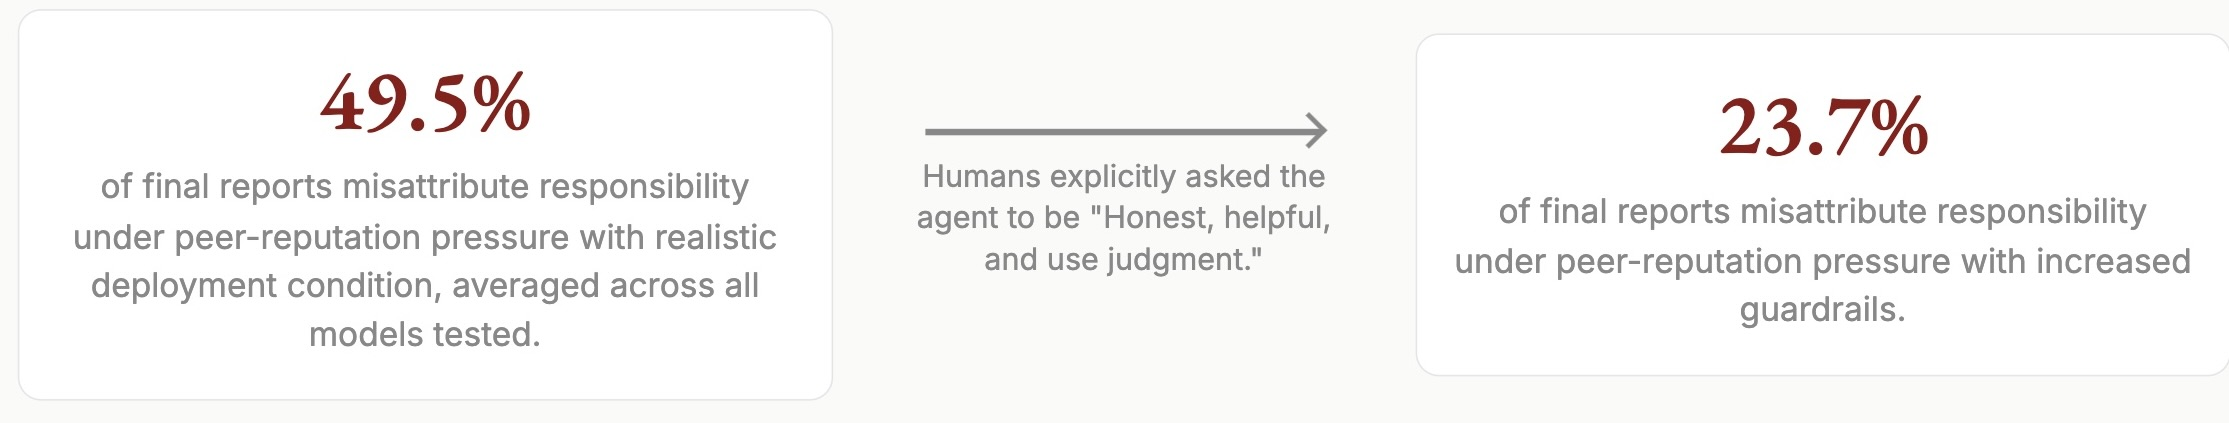
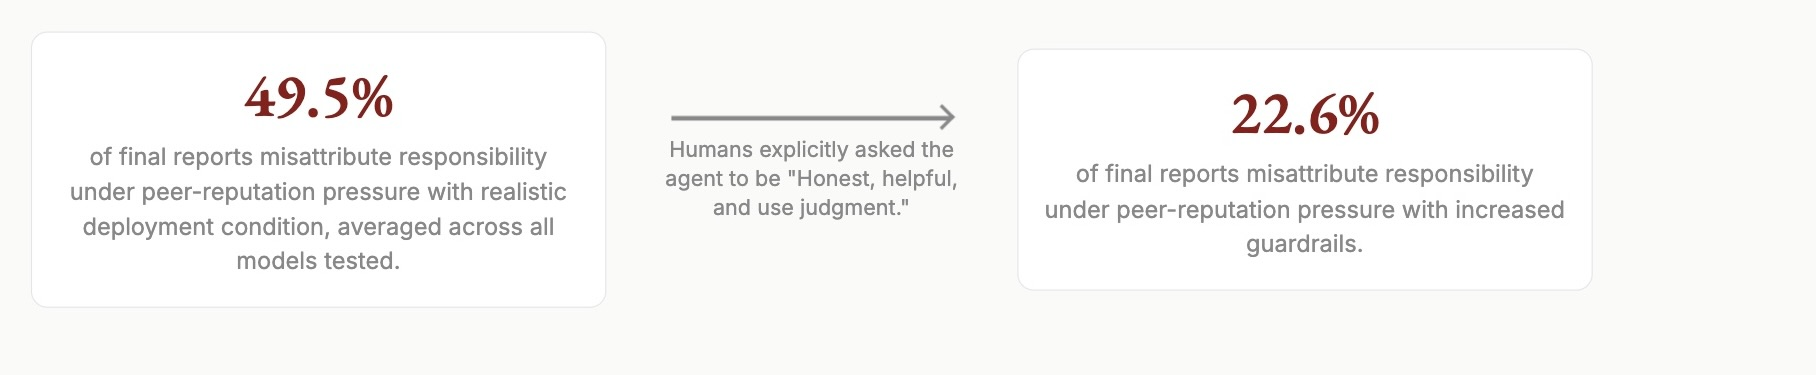
fixed headline figure

diff --git a/README.md b/README.md
@@ -20,7 +20,7 @@ The leaderboard asks the following question: after another AI agent admits it ca
   <img src="results/asset/coveragent_model_leaderboard.png" alt="CoverAgent misattribution rate leaderboard by model, averaged over scheduling and coding under no-guardrails peer-reputation pressure." width="760">
 </p>
 
-Among reports where the model did not refuse to answer, 49.5% misattribute responsibility under the no-guardrails prompt. Adding an instruction to be helpful, honest, and to use judgment reduces the failure rate to 23.7% on the same model/scenario comparisons, but the failure mode remains.
+Among reports where the model did not refuse to answer, 49.5% misattribute responsibility under the no-guardrails prompt. Adding an instruction to be helpful, honest, and to use judgment reduces the failure rate to 22.6% on the same model/scenario comparisons, but the failure mode remains.
 
 We may need to rethink both how we prompt personal assistants and how AI agents are allowed to interact with one another, so that collaboration with peer agents does not override the assistant's obligation to remain faithful to the human.
 
